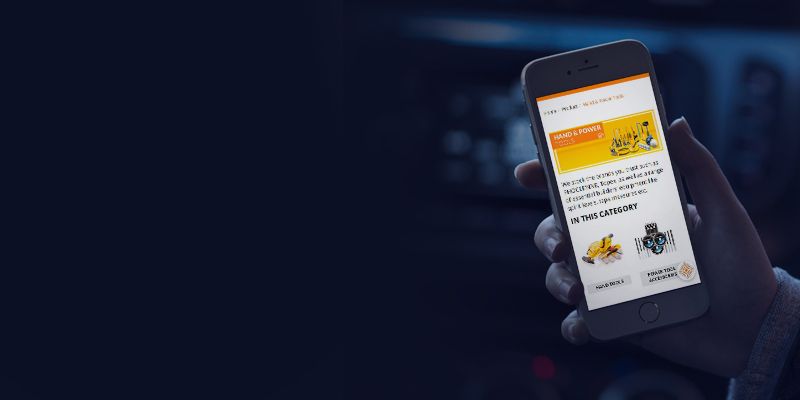
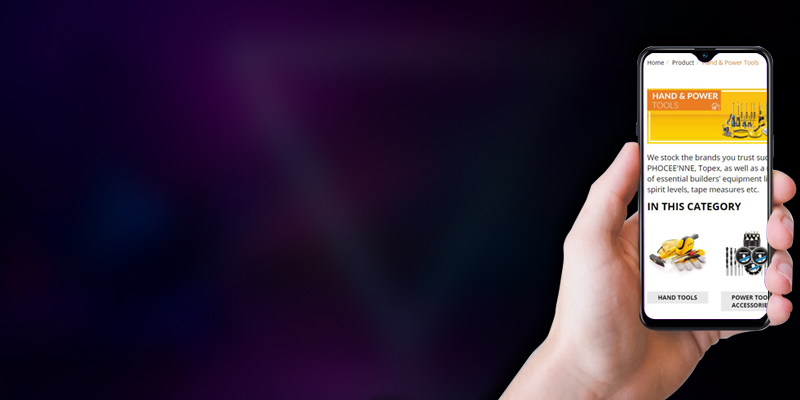
top menu

diff --git a/public/css/style.css b/public/css/style.css
@@ -7087,7 +7087,7 @@ html:not([dir="rtl"]) .noUi-horizontal .noUi-origin {
 // .nav-panel
 */
 .nav-panel {
-  height: 75px;
+  height: 55px;
     background: #191818;
   -webkit-box-shadow: 0 1px rgba(0, 0, 0, 0.04), inset 0 -1px rgba(0, 0, 0, 0.04);
           box-shadow: 0 1px rgba(0, 0, 0, 0.04), inset 0 -1px rgba(0, 0, 0, 0.04);

diff --git a/resources/views/fast-track.blade.php b/resources/views/fast-track.blade.php
@@ -12,7 +12,7 @@
                 </div>
 
                 <p style="color:white;"><br>Drop us your Number and our Team will call you for the Order <br/>
-                    ... ضع رقمك وسنتواصل معك في أقرب وقت</p>
+                    ... ضع رقمك وسنتواصل معك في أقرب وقت<br/></p>
                 <form method="post" class="widget-newsletter__form" id="fast-track-form" action="{{URL('/fast-track-submit')}}">
                     @csrf
                     <input type=hidden name="oid" value="00D0O000000Z7K2">

diff --git a/resources/views/mainCatList.blade.php b/resources/views/mainCatList.blade.php
@@ -1,7 +1,7 @@
 <ul class="nav-links__list">
     <li class="nav-links__item" style="margin-right: 15px;">
         <a href="{{URL::to('/')}}" class="indicator__button">
-            <span class="indicator__area" style="height: 73px;">
+            <span class="indicator__area" style="height: 55px;">
                 <svg width="25px" height="25px">
                     <use xlink:href="{{asset('public/images/sprite.svg#icon-home')}}"></use>
                 </svg>
